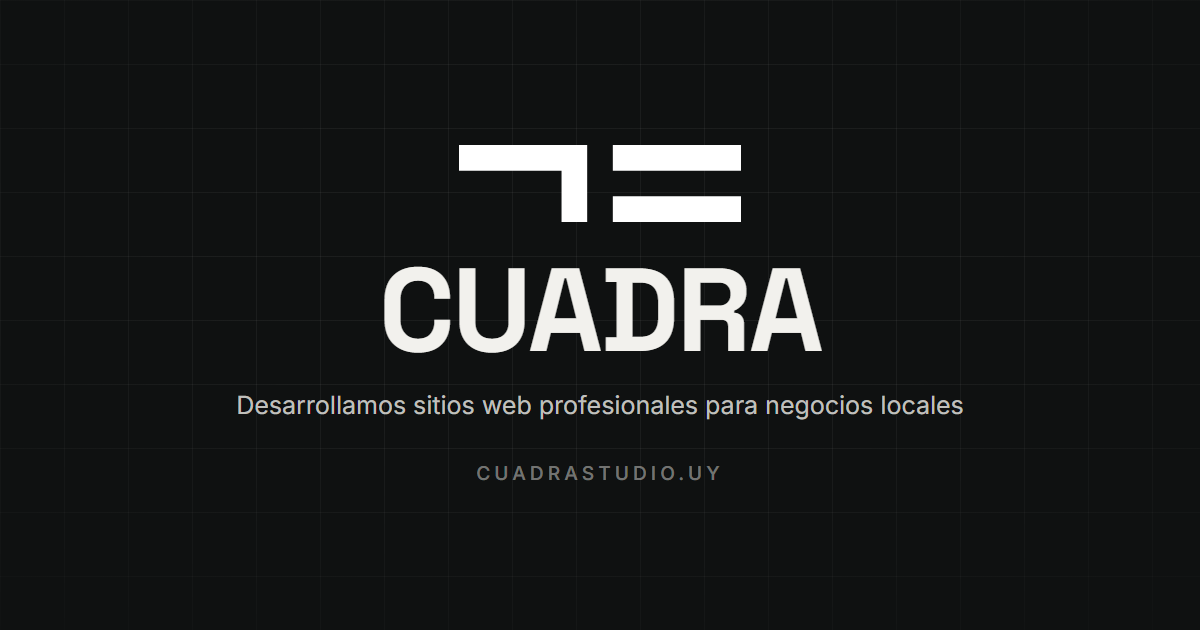
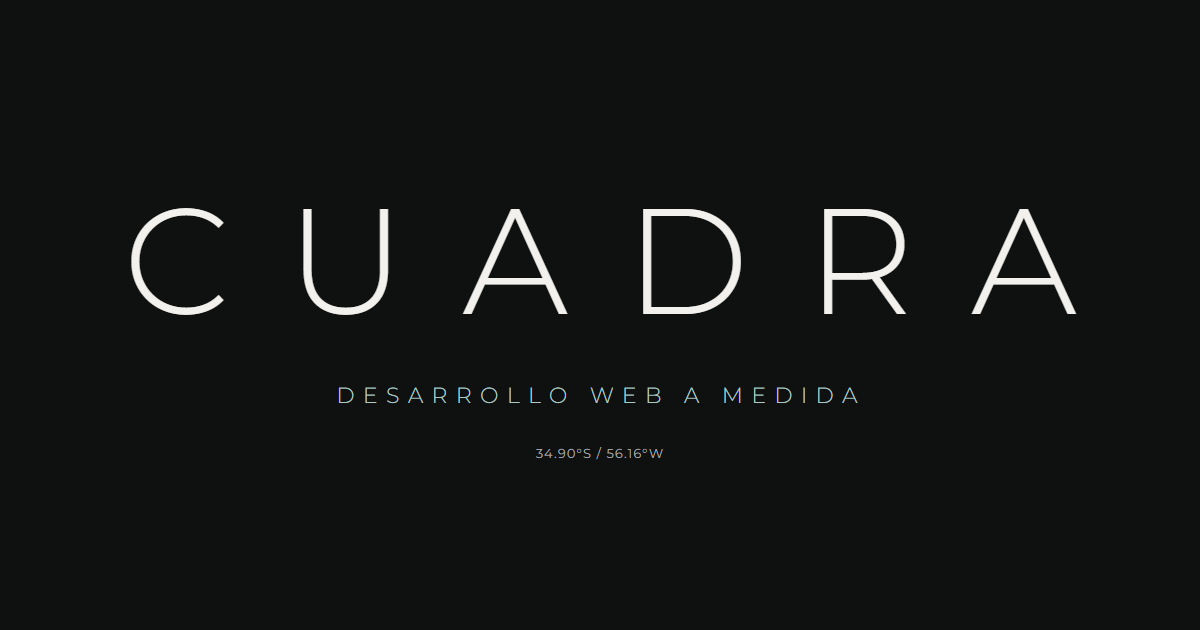
feat: regenerate OG image with Montserrat typography

diff --git a/index.html b/index.html
@@ -26,7 +26,7 @@
   <!-- Favicon -->
   <link rel="icon" type="image/svg+xml" href="favicon.svg">
 
-  <!-- Fonts: Space Grotesk (display) + Inter (body) -->
+  <!-- Fonts: Montserrat unica (roles por letter-spacing: wordmark/interface 0.38em, body 0.02em) -->
   <link rel="preconnect" href="https://fonts.googleapis.com">
   <link rel="preconnect" href="https://fonts.gstatic.com" crossorigin>
   <link href="https://fonts.googleapis.com/css2?family=Montserrat:wght@300;400;500;600;700&display=swap" rel="stylesheet">
